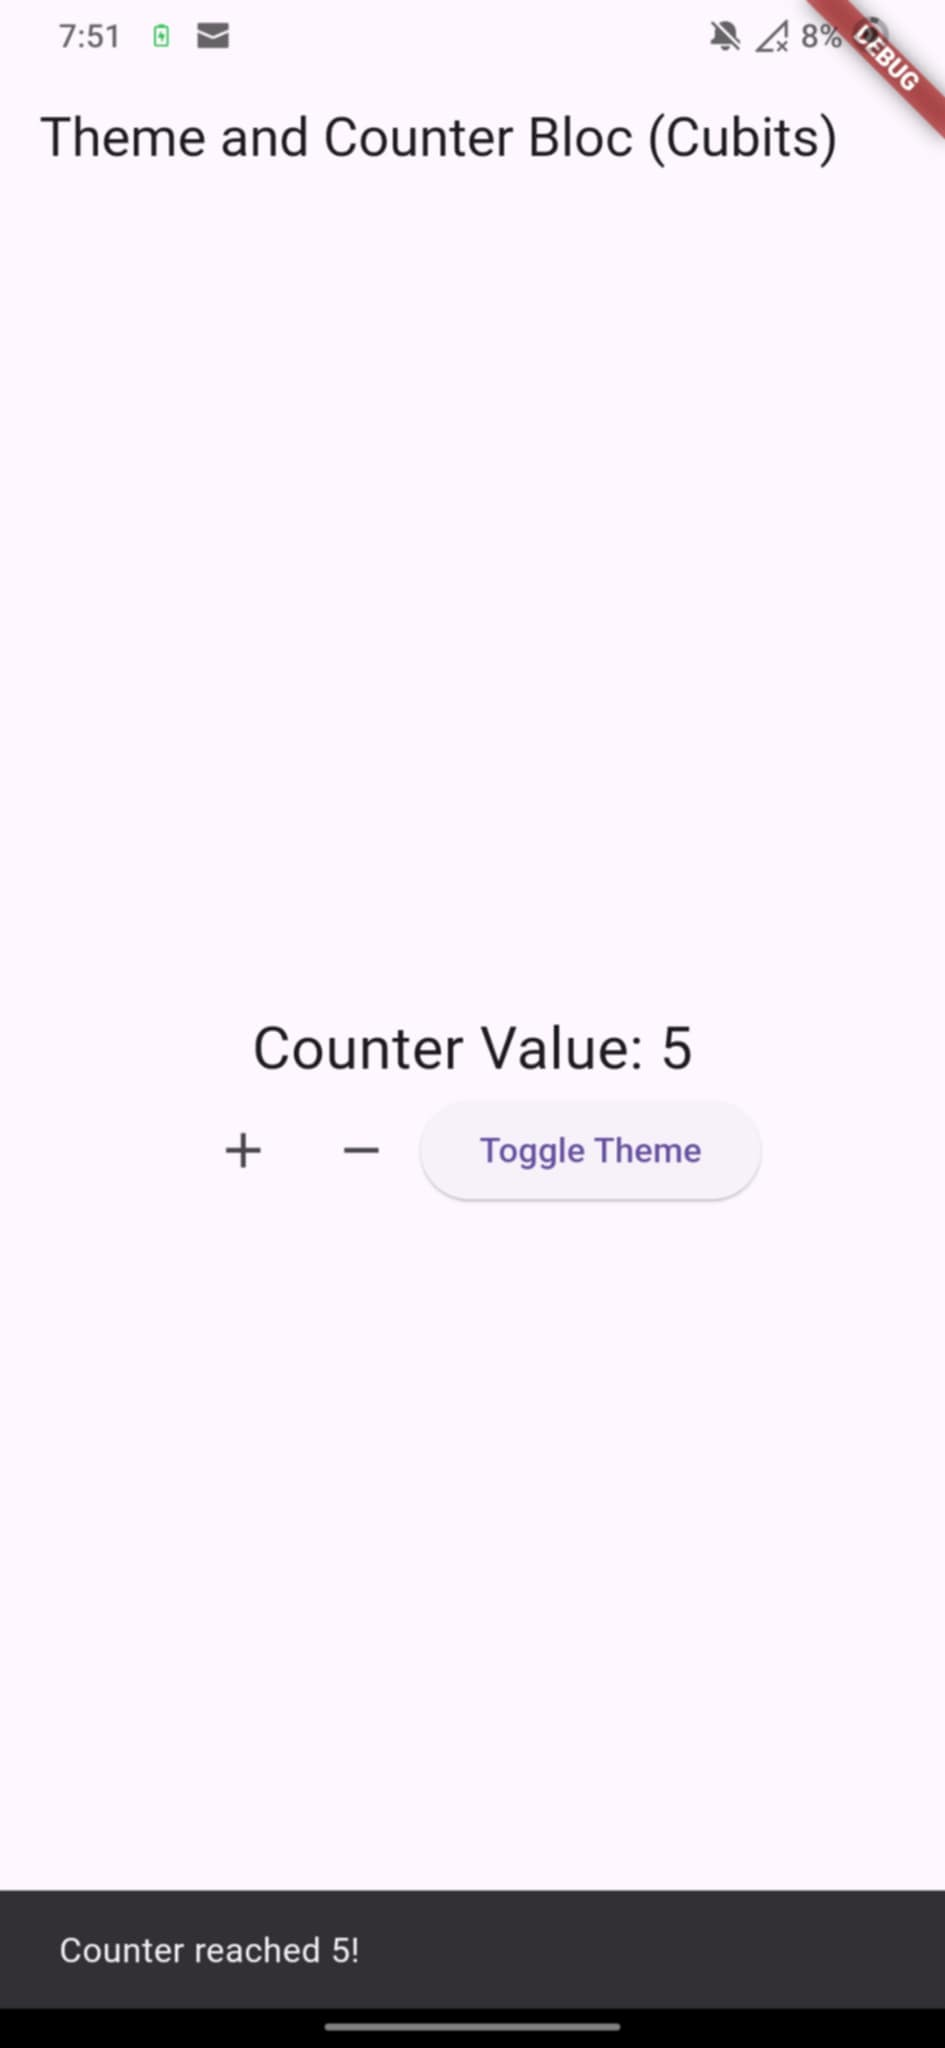
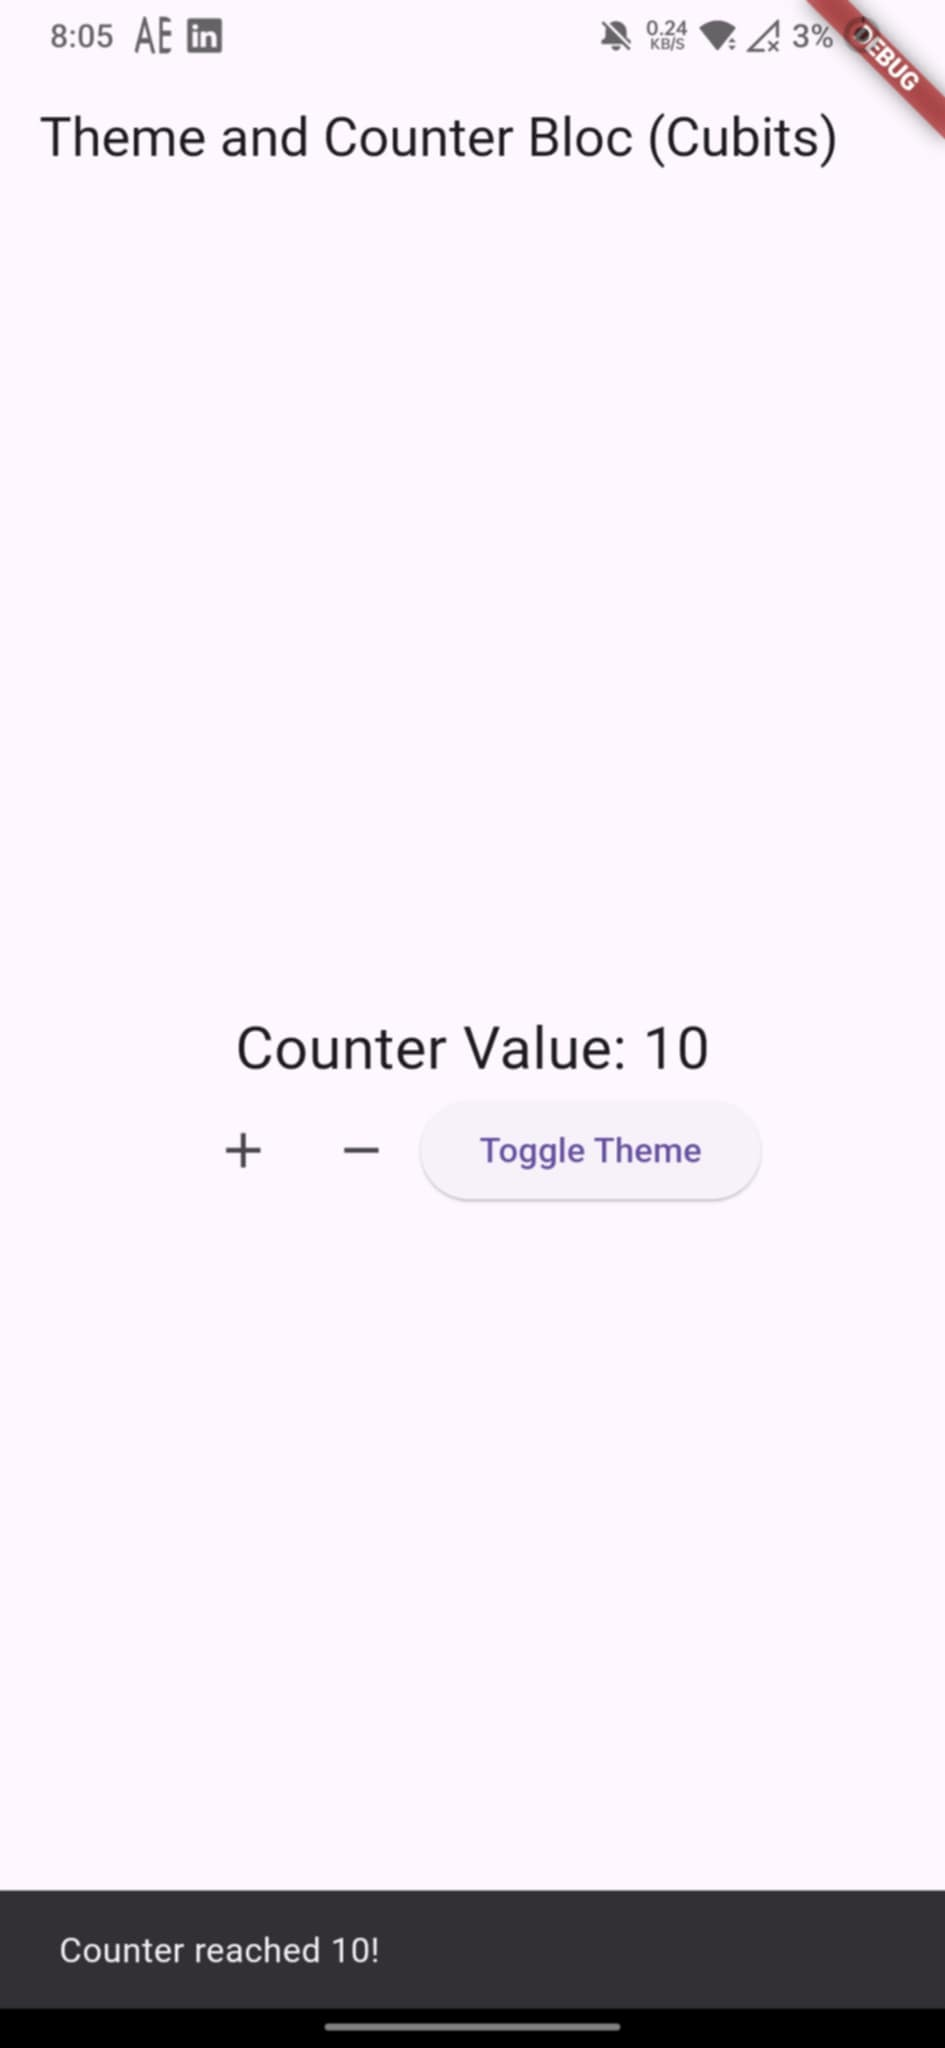
edited snackbar values

diff --git a/different_bloc/lib/presentation/screens/counter_page.dart b/different_bloc/lib/presentation/screens/counter_page.dart
@@ -42,9 +42,9 @@ class CounterPage extends StatelessWidget {
             );
           },
           listener: (context, counterValue) {
-            if (counterValue == 5) {
+            if (counterValue == 10 || counterValue == -10) {
               ScaffoldMessenger.of(context).showSnackBar(
-                SnackBar(content: Text('Counter reached 5!')),
+                SnackBar(content: Text('Counter reached $counterValue!')),
               );
             }
           },

diff --git a/different_bloc/README.md b/different_bloc/README.md
@@ -33,7 +33,7 @@ class ThemeCubit extends Cubit<ThemeData> {
 
 ## UI Implementation
 ### Using `BlocConsumer`
-The UI updates the counter value and shows a SnackBar when it reaches 5.
+The UI updates the counter value and shows a SnackBar when it reaches 10 or -10.
 
 ```dart
 import 'package:different_bloc/presentation/bloc/counter/counter_cubit.dart';
@@ -77,9 +77,9 @@ class CounterPage extends StatelessWidget {
             );
           },
           listener: (context, counterValue) {
-            if (counterValue == 5) {
+            if (counterValue == 10 || counterValue == -10) {
               ScaffoldMessenger.of(context).showSnackBar(
-                SnackBar(content: Text('Counter reached 5!')),
+                SnackBar(content: Text('Counter reached $counterValue!')),
               );
             }
           },
